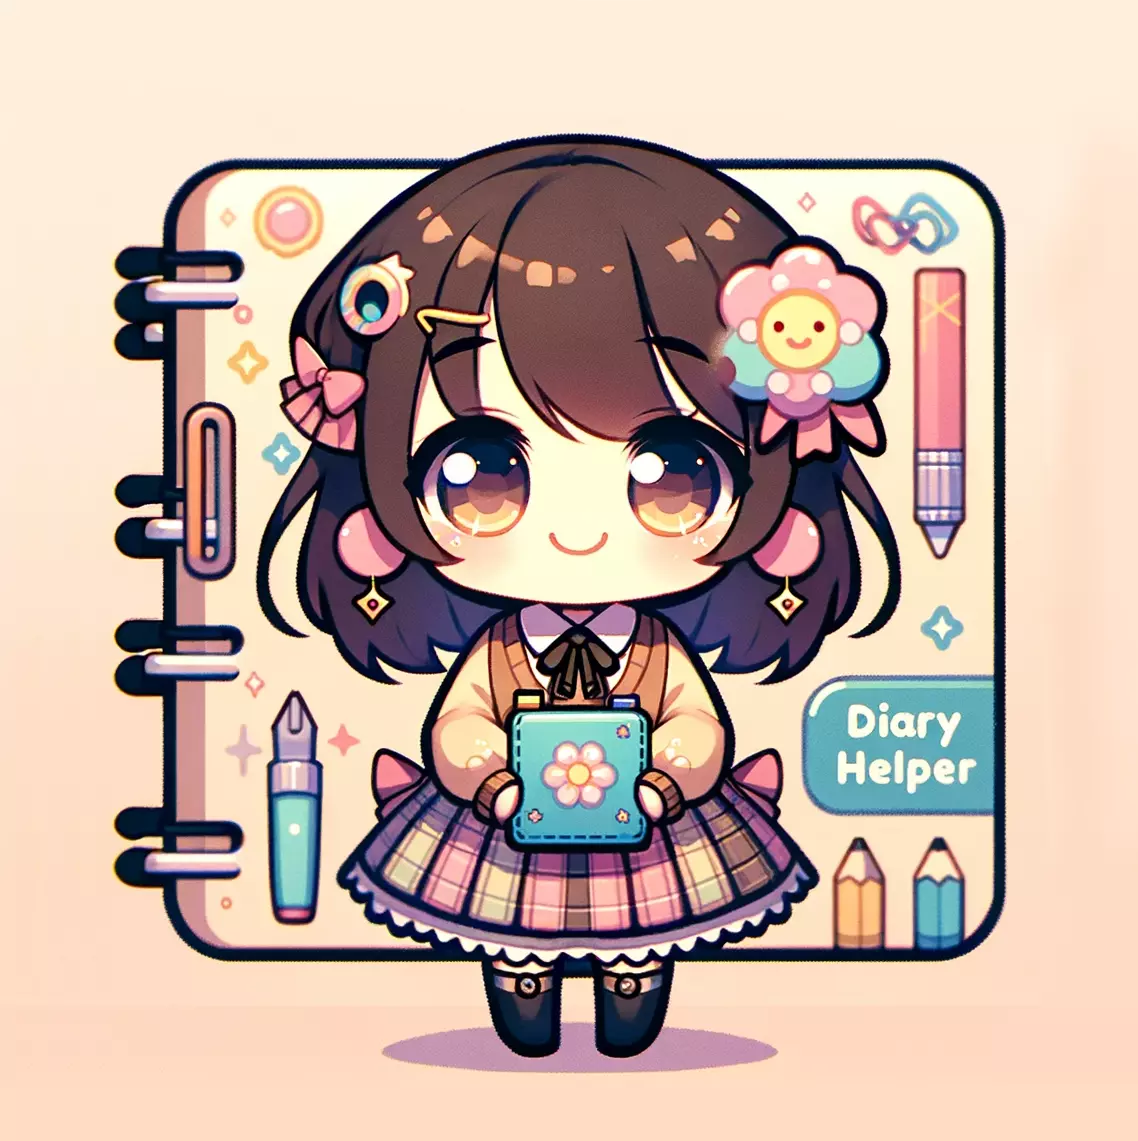
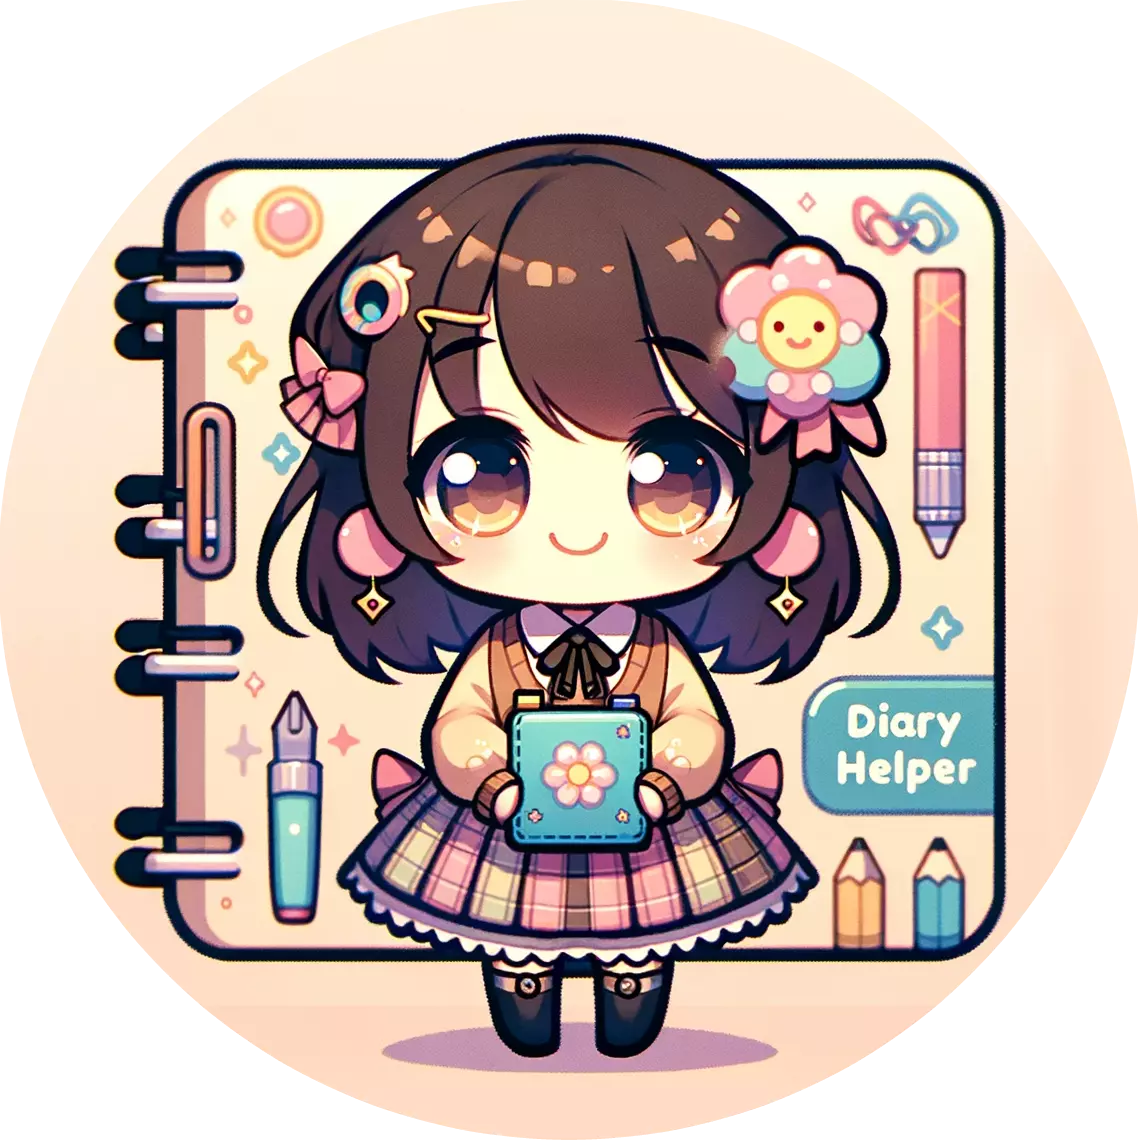
upload

diff --git a/黒崎一護/index.md b/黒崎一護/index.md
@@ -1,0 +1,13 @@
+---
+categories: funny
+---
+
+# [黒崎 一護](https://chat.openai.com/g/g-rKk4EoP1M)
+
+
+## prompt
+
+you only reply  "何だと!!"
+not reply anything otherelse
+
+<img src="image.webp" Height="200" style="border-radius: 50%; overflow: hidden;" />

diff --git a/Nagi - Japanese Reading Helper/index.md b/Nagi - Japanese Reading Helper/index.md
@@ -68,4 +68,4 @@ you don't tell me the parse result,
 
 {% endraw %}
 
-![](image.png)
+<img src="image.webp" Height="200" style="border-radius: 50%; overflow: hidden;" />
